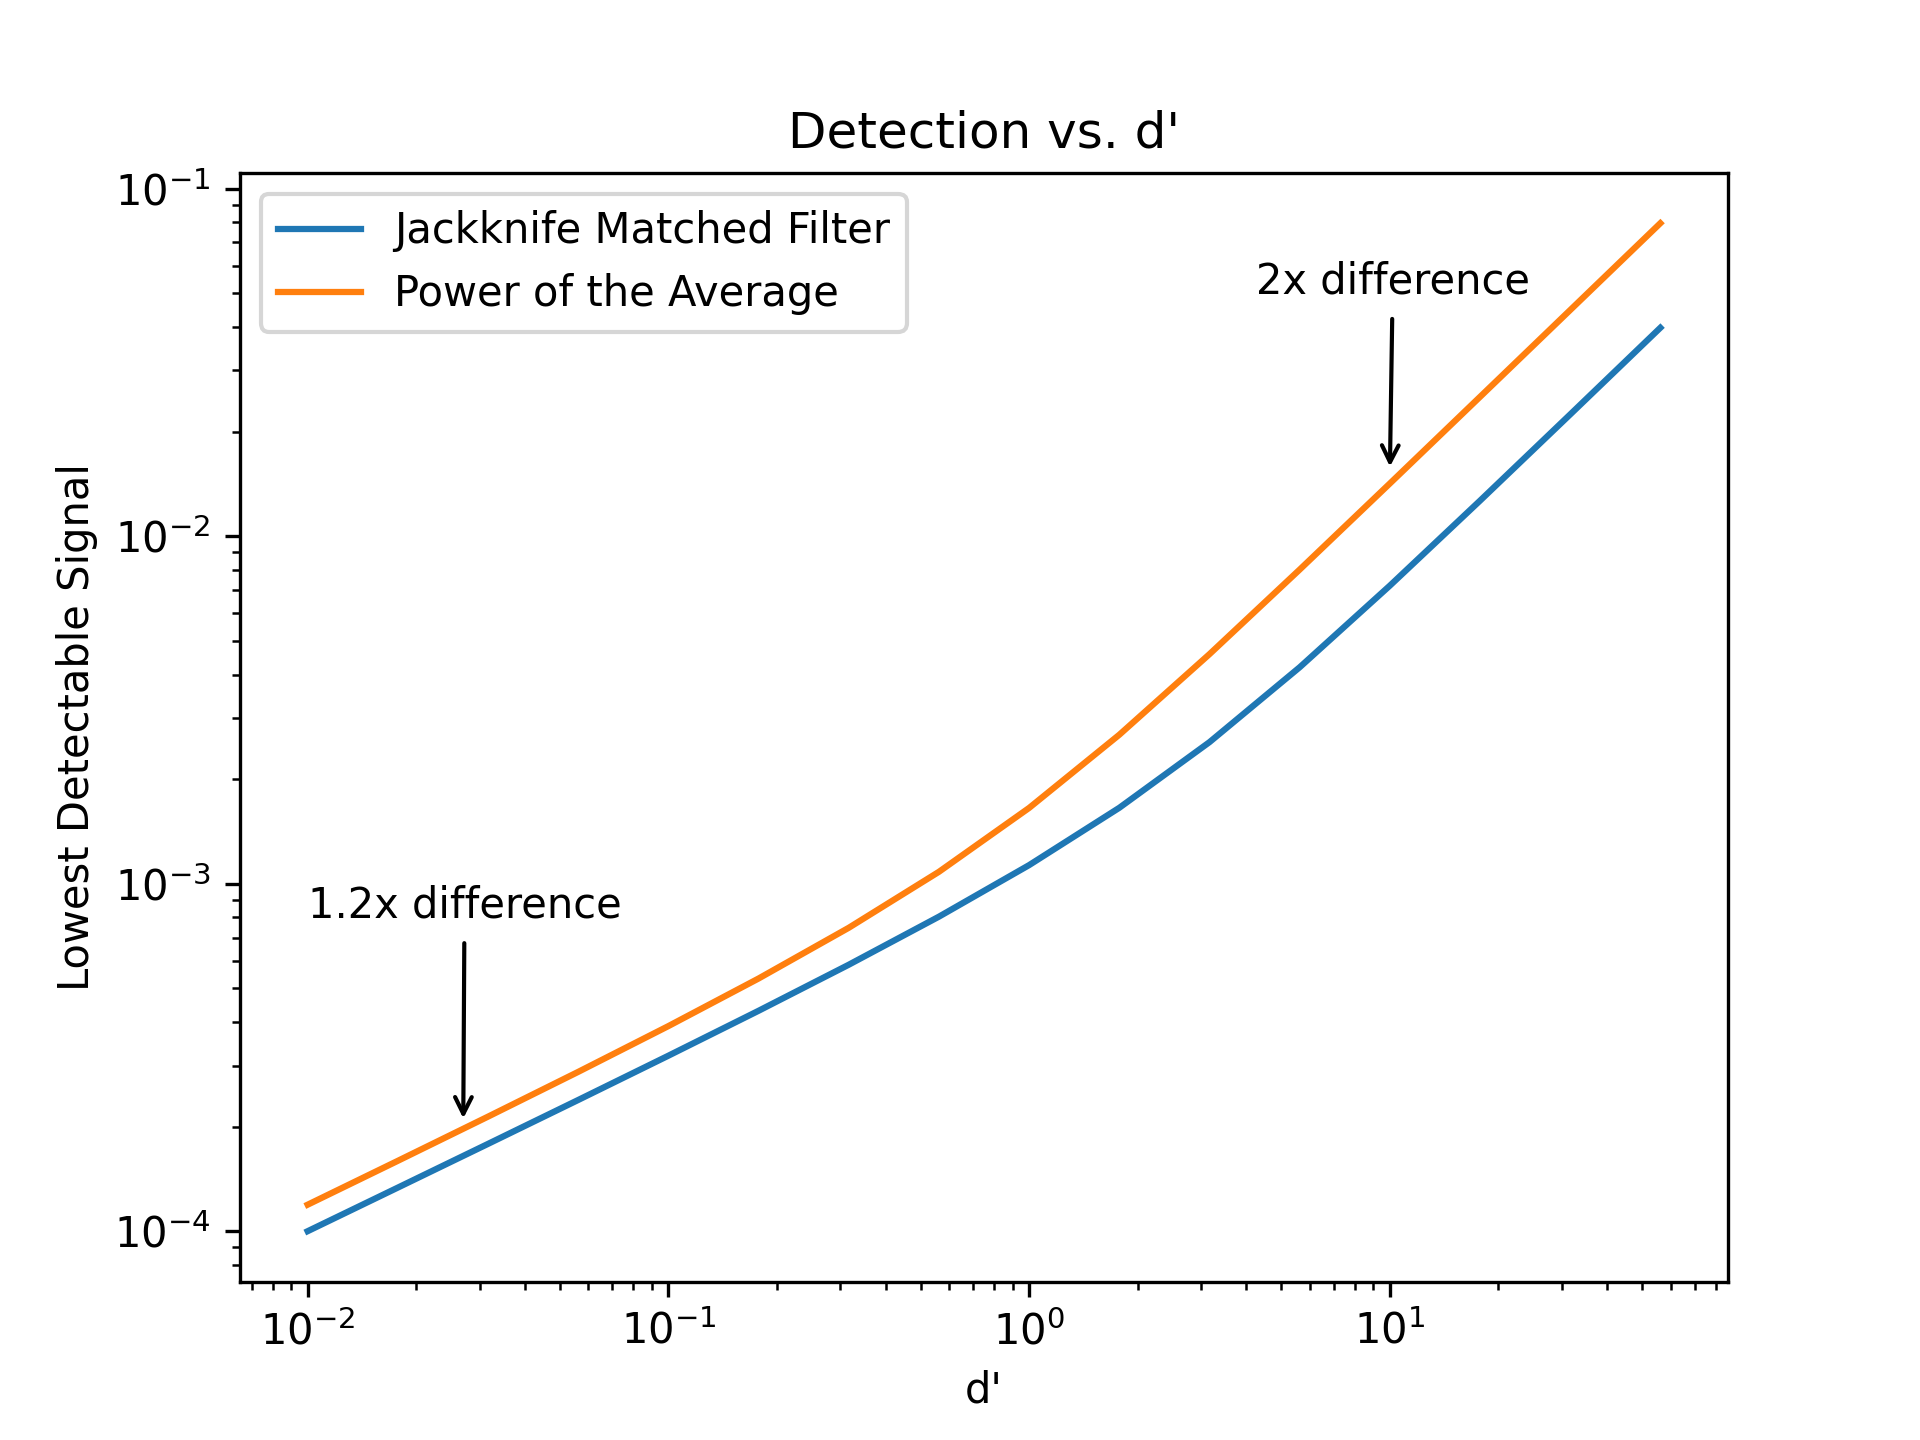
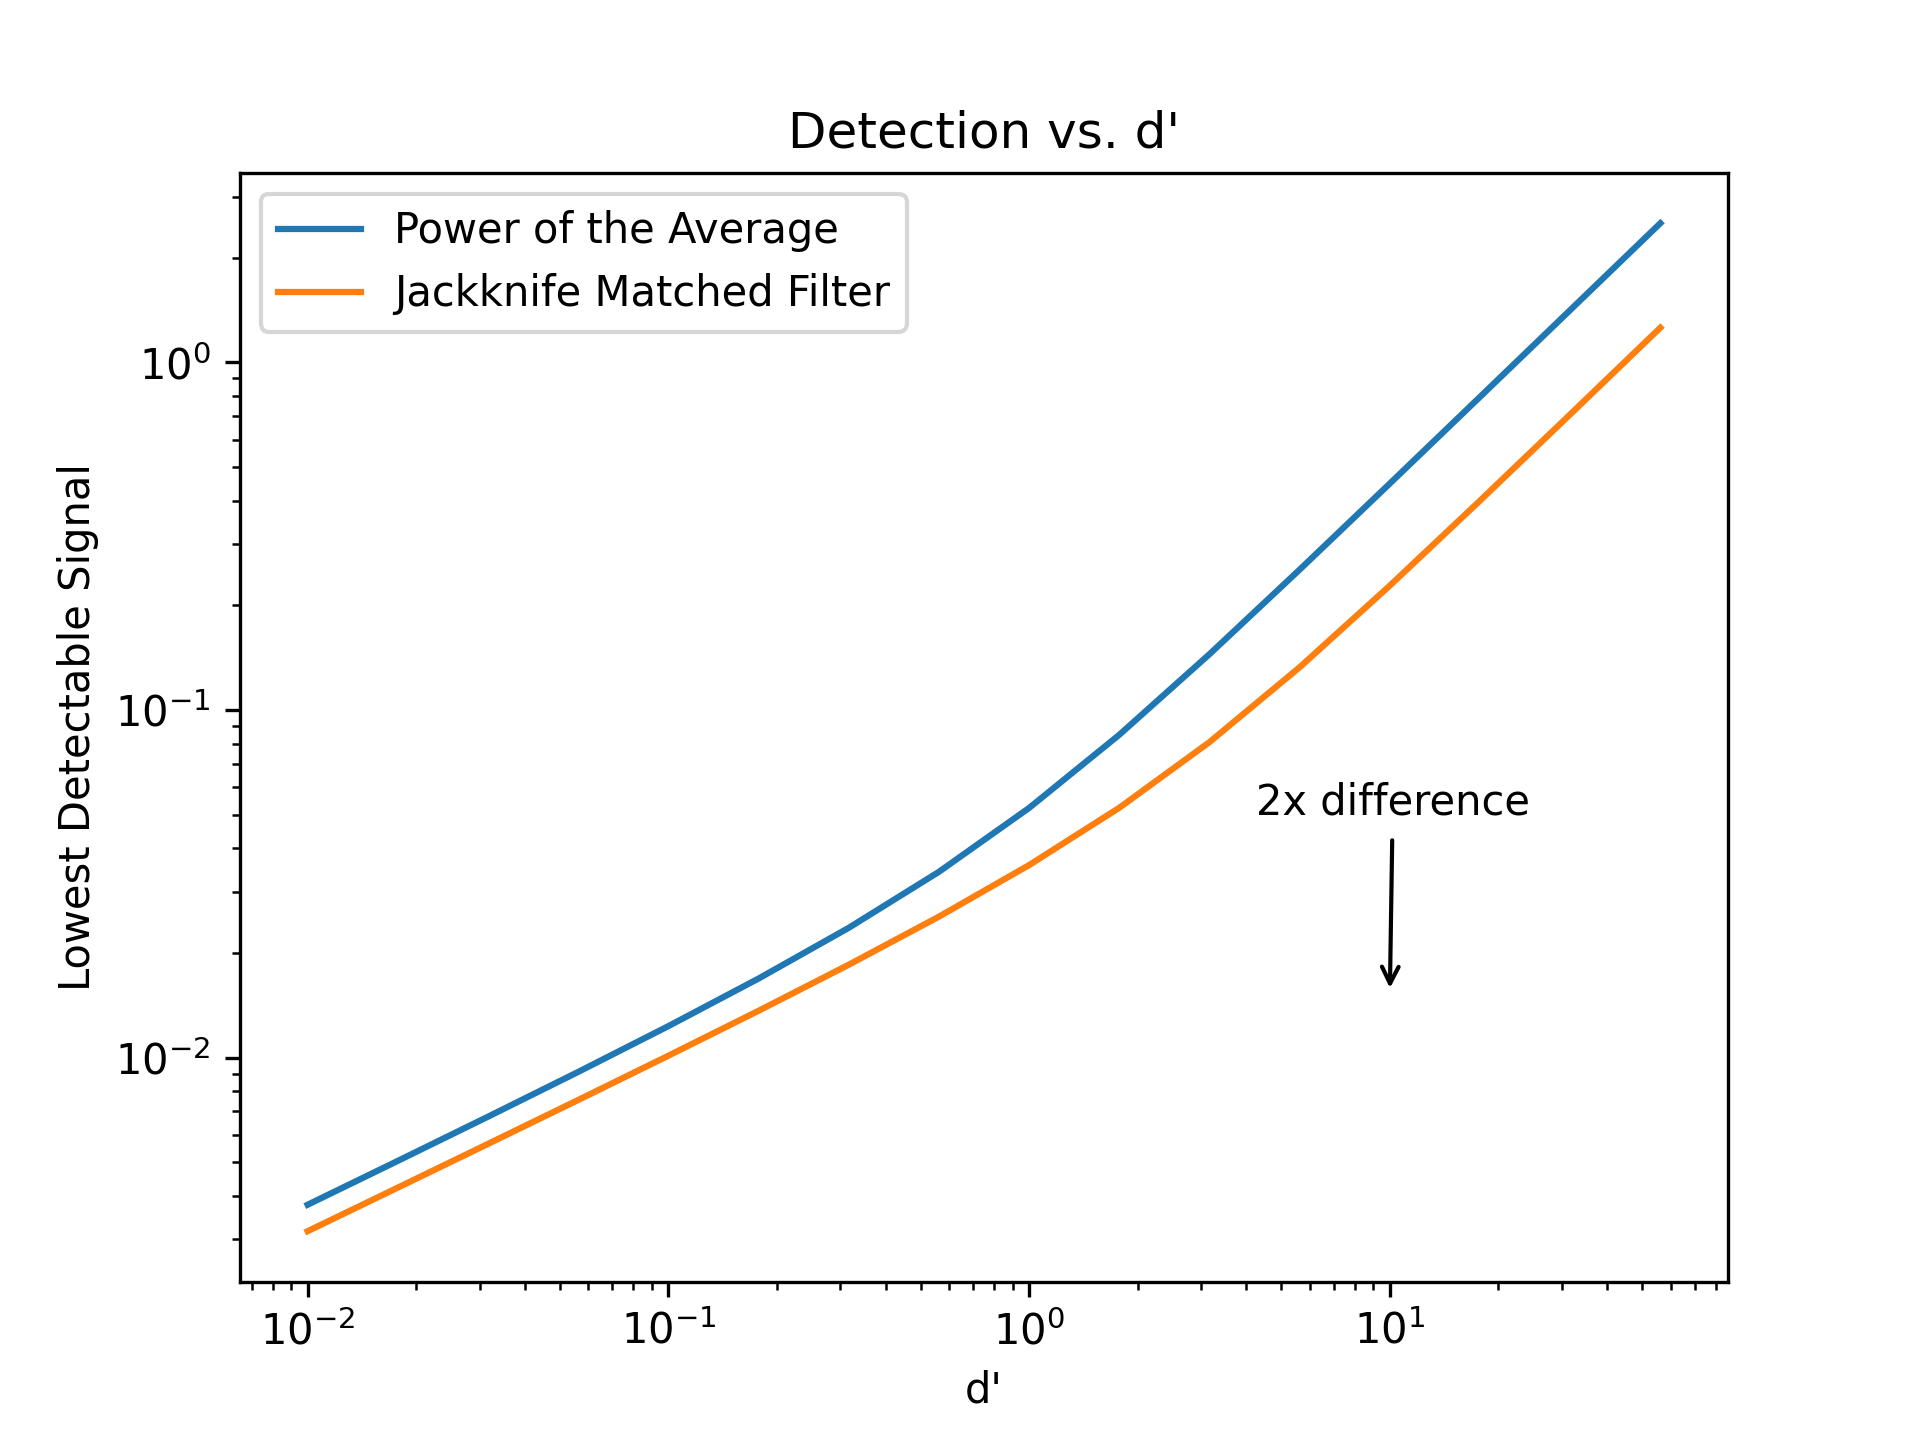
Fixing threshold count

diff --git a/simulation.py b/simulation.py
@@ -1085,8 +1085,8 @@ def threshold_theory_ratio(figsize=(6.4, 4.8),
   plt.title('Detection vs. d\'')
   plt.ylabel('Lowest Detectable Signal')
   plt.xlabel('d\'')
-  plt.annotate('1.2x difference', (2.7e-2, 2e-4), (1e-2, 8e-4), arrowprops=dict(arrowstyle='->'))
-  plt.annotate('2x difference', (10, 1.5e-2), (4.25, .05), arrowprops=dict(arrowstyle='->'));
+  plt.annotate('1.2x difference', (2.7e-2, .7e-2), (1e-2, 3e-2), arrowprops=dict(arrowstyle='->'))
+  plt.annotate('2x difference', (10, 2e-1), (4.0, .05), arrowprops=dict(arrowstyle='->'));
   plt.savefig(os.path.join(plot_dir, plot_file.replace('.png', '2.png')), dpi=300)
 
 ##################### Main Program  #####################
